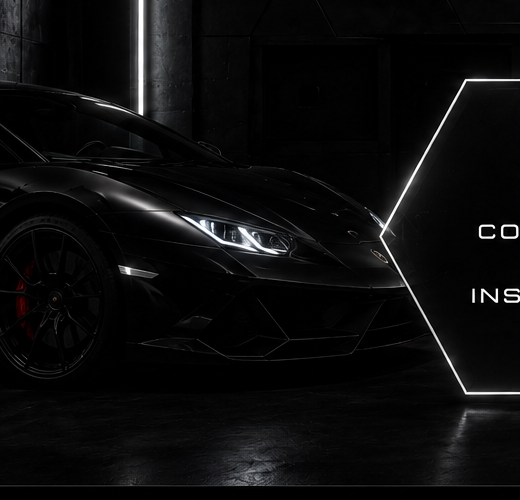
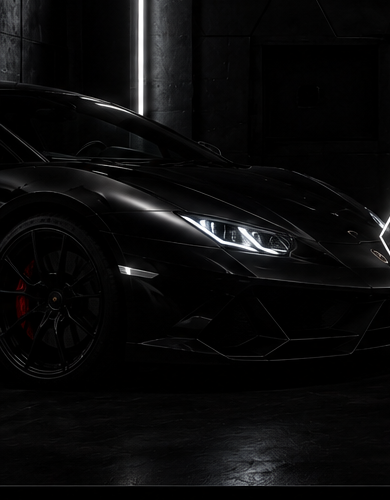
mobile fix

diff --git a/collision-insurance.html b/collision-insurance.html
@@ -64,7 +64,7 @@
 </div></div>
 <div class="crumbs"><div class="wrap"><a href="index.html">Home</a><span class="sep">/</span><span class="here">Collision &amp; Insurance</span></div></div>
 <main>
-<section class="hero clean legacy-hero collision-legacy" style="background-image:url('https://images.unsplash.com/photo-1503376780353-7e6692767b70?auto=format&amp;fit=crop&amp;w=2000&amp;q=88')"><div class="wrap"><div class="eyebrow">Collision &amp; Insurance — North Haven, CT</div><h1>After an accident, call Exclusive Auto Lab.</h1><p>We repair the damage, help organize the insurance claim, coordinate towing and keep you informed from drop-off through delivery.</p><div class="actions"><a class="btn primary" href="schedule.html">Schedule a Visit</a><a class="btn ghost" href="tel:+12033087381">Call 203-308-7381</a><a class="btn ghost" href="sms:+12033087381">Text Photos of the Damage</a><a class="btn ghost" href="https://www.google.com/maps/search/?api=1&amp;query=78+Rebeschi+Drive+North+Haven+CT+06473" rel="noopener" target="_blank">Get Directions</a></div></div></section><div class="trustbar"><div class="wrap trustgrid"><div class="trustitem"><strong>All Makes and Models</strong><span>Daily drivers, work vehicles, and luxury cars.</span></div><div class="trustitem"><strong>Insurance Claim Help</strong><span>Clear communication with you and the insurance carrier.</span></div><div class="trustitem"><strong>Towing Coordination</strong><span>Call us before deciding where your vehicle goes.</span></div><div class="trustitem"><strong>Direct Shop Contact</strong><span>Talk to a real person throughout the entire repair.</span></div></div></div>
+<section class="hero clean legacy-hero collision-legacy" style="background-image:url('https://images.unsplash.com/photo-1503376780353-7e6692767b70?auto=format&amp;fit=crop&amp;w=2000&amp;q=88')"><span class="collision-plate" aria-hidden="true">EXCLUSIVE</span><div class="wrap"><div class="eyebrow">Collision &amp; Insurance — North Haven, CT</div><h1>After an accident, call Exclusive Auto Lab.</h1><p>We repair the damage, help organize the insurance claim, coordinate towing and keep you informed from drop-off through delivery.</p><div class="actions"><a class="btn primary" href="schedule.html">Schedule a Visit</a><a class="btn ghost" href="tel:+12033087381">Call 203-308-7381</a><a class="btn ghost" href="sms:+12033087381">Text Photos of the Damage</a><a class="btn ghost" href="https://www.google.com/maps/search/?api=1&amp;query=78+Rebeschi+Drive+North+Haven+CT+06473" rel="noopener" target="_blank">Get Directions</a></div></div></section><div class="trustbar"><div class="wrap trustgrid"><div class="trustitem"><strong>All Makes and Models</strong><span>Daily drivers, work vehicles, and luxury cars.</span></div><div class="trustitem"><strong>Insurance Claim Help</strong><span>Clear communication with you and the insurance carrier.</span></div><div class="trustitem"><strong>Towing Coordination</strong><span>Call us before deciding where your vehicle goes.</span></div><div class="trustitem"><strong>Direct Shop Contact</strong><span>Talk to a real person throughout the entire repair.</span></div></div></div>
 <section aria-labelledby="insurance-partners-title" class="insurance-partners">
 <div class="wrap">
 <div class="insurance-partners-head">

diff --git a/index.html b/index.html
@@ -38,7 +38,7 @@ main{width:min(1100px,calc(100% - 36px));margin:auto;padding:44px 0 50px;text-al
 .choice-copy{position:relative;z-index:2;width:78%;display:flex;flex-direction:column;align-items:center;gap:14px;transition:transform .28s ease,filter .28s ease}.choice-kicker{font-family:Archivo,Arial,sans-serif;font-size:11px;font-weight:700;letter-spacing:.34em;color:#aaa;text-transform:uppercase}.choice-title{font-size:clamp(19px,1.7vw,26px);line-height:1.48;letter-spacing:.085em;text-transform:uppercase;font-weight:400;transition:color .28s ease,text-shadow .28s ease}.choice-tags{display:block;font-family:Archivo,Arial,sans-serif;font-size:10px;font-weight:700;letter-spacing:.13em;color:#b8b8b8;text-transform:uppercase;transition:color .28s ease,text-shadow .28s ease}.choice:hover .choice-copy,.choice:focus-visible .choice-copy{transform:scale(1.055);filter:drop-shadow(0 0 7px rgba(255,255,255,.18))}.choice:hover .choice-title,.choice:focus-visible .choice-title{color:#fff;text-shadow:0 0 8px rgba(255,255,255,.9),0 0 18px rgba(255,255,255,.5)}.choice:hover .choice-tags,.choice:focus-visible .choice-tags{color:#fff;text-shadow:0 0 7px rgba(255,255,255,.55)}
 .bottom{min-height:72px;padding:17px clamp(28px,4vw,66px);display:grid;grid-template-columns:1fr auto;align-items:center;gap:30px;border-top:1px solid rgba(255,255,255,.1);background:rgba(0,0,0,.95);color:#aaa;font-family:Archivo,Arial,sans-serif;font-size:13px}.social a{display:grid;place-items:center;width:42px;height:42px;border:1px solid rgba(255,255,255,.28);border-radius:50%}.social svg{width:20px;height:20px}
 @media(max-width:760px){
- .scene,.hex-field{inset:70px 0 0}.scene{background-position:center 44%;filter:brightness(.22) saturate(.55) contrast(1.25)}.car{display:block;bottom:0;height:37%;width:72%;opacity:.96;filter:brightness(.8) saturate(.9) contrast(1.08);background-size:contain}.car.left{left:-22%;background-position:left bottom}.car.right{right:-22%;background-position:right bottom}.hex-field{background-size:150px 130px;opacity:.7}
+ .scene,.hex-field{inset:70px 0 0}.scene{background-position:center 44%;filter:brightness(.22) saturate(.55) contrast(1.25)}.car{display:block;bottom:0;height:34%;width:56%;opacity:.98;filter:brightness(.9) saturate(.96) contrast(1.1);background-size:contain}.car.left{left:-8%;background-position:left bottom}.car.right{right:-8%;background-position:right bottom}.hex-field{background-size:150px 130px;opacity:.7}
  .top{height:70px;padding:0 16px}.top-logo{width:220px}.phone{display:none}.schedule{padding:10px 12px;font-size:8px}
  main{width:calc(100% - 24px);padding:32px 0 38px}.prompt{min-height:2.7em;font-size:clamp(22px,6.8vw,31px);line-height:1.42;letter-spacing:.095em;margin-bottom:22px}.choices{grid-template-columns:1fr;gap:15px;max-width:390px}.choice{aspect-ratio:1.28/1}.choice-copy{gap:12px;width:80%}.choice-kicker{font-size:9px}.choice-title{font-size:clamp(18px,5.6vw,24px);line-height:1.38;letter-spacing:.065em}.choice-tags{font-size:8px;letter-spacing:.1em}.bottom{grid-template-columns:1fr;text-align:center;gap:10px;font-size:11px}.social{justify-self:center}
 }

diff --git a/styles.css b/styles.css
@@ -900,3 +900,28 @@ footer h4+p{margin-bottom:26px}
 .custom-feature-copy p{font-size:18px;color:#c7c7c7;margin:0 0 25px}.custom-tags{display:flex;gap:9px;flex-wrap:wrap;margin-bottom:29px}.custom-tags span{border:1px solid #353535;padding:9px 12px;font-size:12px;text-transform:uppercase;letter-spacing:.08em;font-weight:800}
 @media(max-width:900px){.customization-intro,.custom-feature{grid-template-columns:1fr;gap:36px}.customization-photo{min-height:570px}.customization-services{grid-template-columns:1fr 1fr}.custom-feature-media{min-height:480px}.custom-feature-copy{padding:48px 30px}}
 @media(max-width:560px){.customization-intro{margin-bottom:48px}.customization-copy h2{font-size:46px}.customization-photo{min-height:480px}.customization-services{grid-template-columns:1fr}.custom-card{padding:28px 24px 38px!important;min-height:230px}.custom-feature{margin-top:48px}.custom-feature-media{min-height:390px}.custom-feature-copy{padding:38px 22px}.project-label{left:18px;right:18px}}
+
+
+/* V11 mobile cleanup */
+@media(max-width:560px){
+  .customization-photo{min-height:0!important;max-height:none!important;aspect-ratio:1473/2048!important;background:#050505!important;}
+  .customization-photo img{position:absolute!important;inset:0!important;width:100%!important;height:100%!important;object-fit:contain!important;object-position:center center!important;}
+  .customization-photo .project-label{background:linear-gradient(180deg,transparent,rgba(0,0,0,.92));padding-top:80px;}
+}
+
+/* Rebrand the visible Porsche plate on collision hero. */
+.collision-legacy{position:relative;}
+.collision-legacy .collision-plate{
+  position:absolute;z-index:1;left:17.4%;top:50.4%;transform:translate(-50%,-50%) rotate(1.5deg);
+  display:flex;align-items:center;justify-content:center;width:clamp(62px,7.2vw,108px);height:clamp(25px,3.05vw,44px);
+  background:#f0f0ed;color:#090909;border:2px solid #171717;border-radius:2px;
+  font:700 clamp(7px,.72vw,11px)/1 Archivo,Arial,sans-serif;letter-spacing:.08em;text-transform:uppercase;
+  box-shadow:0 1px 4px rgba(0,0,0,.55);pointer-events:none;
+}
+.collision-legacy .wrap{position:relative;z-index:2;}
+@media(max-width:760px){
+  .collision-legacy .collision-plate{left:17.5%;top:142px;width:54px;height:22px;font-size:6px;border-width:1px;}
+}
+@media(max-width:420px){
+  .collision-legacy .collision-plate{left:17.5%;top:140px;width:50px;height:20px;font-size:5.5px;}
+}

diff --git a/collision-repair.html b/collision-repair.html
@@ -64,7 +64,7 @@
 </div></div>
 <div class="crumbs"><div class="wrap"><a href="index.html">Home</a><span class="sep">/</span><span>Services</span><span class="sep">/</span><span class="here">Collision Repair</span></div></div>
 <main>
-<section class="hero sub clean" style="background-image:url('https://images.unsplash.com/photo-1503376780353-7e6692767b70?auto=format&amp;fit=crop&amp;w=2000&amp;q=88')"><div class="wrap"><div class="eyebrow">Collision Repair in North Haven, CT</div><h1>Collision repair done right the first time.</h1><p>From a parking-lot scrape to major accident damage, Exclusive Auto Lab inspects, documents and repairs your vehicle so it looks right, fits right and drives right.</p><div class="actions"><a class="btn primary" href="schedule.html">Schedule a Visit</a><a class="btn ghost" href="tel:+12033087381">Call 203-308-7381</a><a class="btn ghost" href="sms:+12033087381">Text the Shop</a></div></div></section>
+<section class="hero sub clean collision-legacy" style="background-image:url('https://images.unsplash.com/photo-1503376780353-7e6692767b70?auto=format&amp;fit=crop&amp;w=2000&amp;q=88')"><span class="collision-plate" aria-hidden="true">EXCLUSIVE</span><div class="wrap"><div class="eyebrow">Collision Repair in North Haven, CT</div><h1>Collision repair done right the first time.</h1><p>From a parking-lot scrape to major accident damage, Exclusive Auto Lab inspects, documents and repairs your vehicle so it looks right, fits right and drives right.</p><div class="actions"><a class="btn primary" href="schedule.html">Schedule a Visit</a><a class="btn ghost" href="tel:+12033087381">Call 203-308-7381</a><a class="btn ghost" href="sms:+12033087381">Text the Shop</a></div></div></section>
 <div class="trustbar"><div class="wrap trustgrid"><div class="trustitem"><strong>All Makes and Models</strong><span>Daily drivers, work vehicles, and luxury cars.</span></div><div class="trustitem"><strong>Insurance Claim Help</strong><span>Clear communication with you and the insurance carrier.</span></div><div class="trustitem"><strong>Towing Coordination</strong><span>Call us before deciding where your vehicle goes.</span></div><div class="trustitem"><strong>Direct Shop Contact</strong><span>Talk to a real person throughout the entire repair.</span></div></div></div>
 
 <section><div class="wrap">
